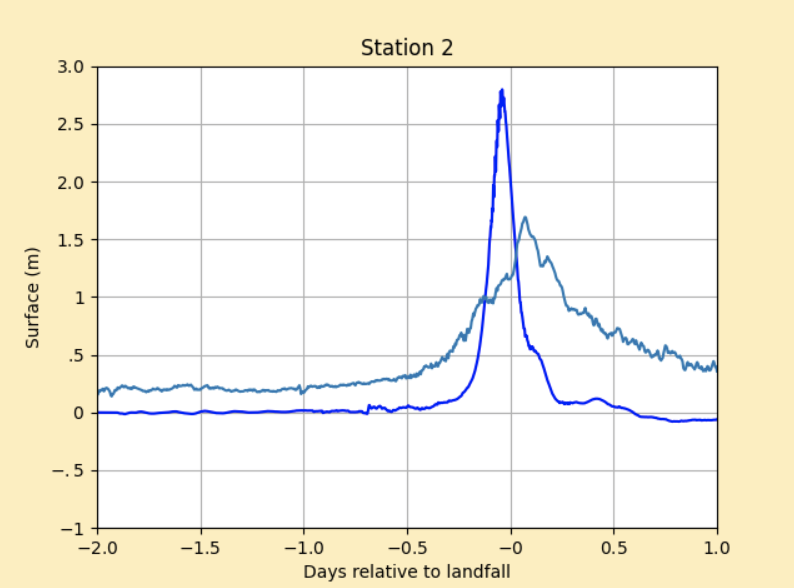
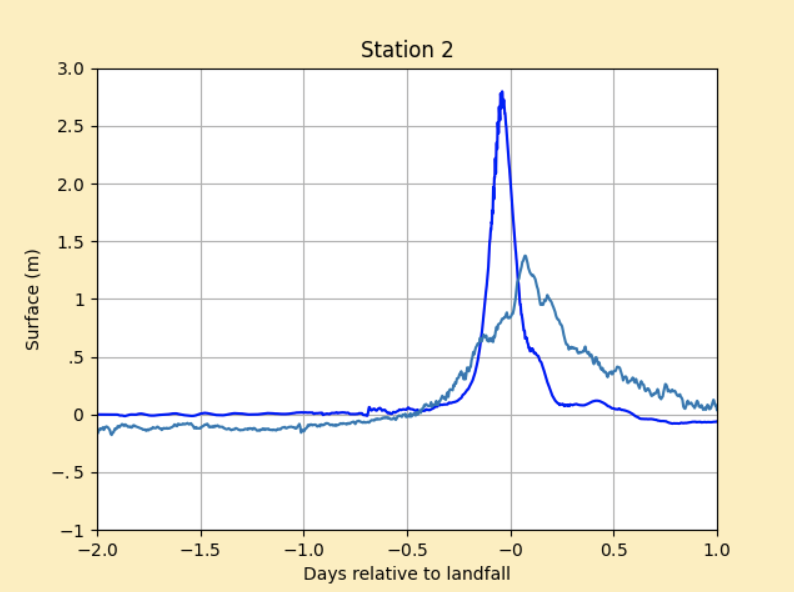
update ida

diff --git a/ida/setplot.py b/ida/setplot.py
@@ -169,6 +169,8 @@ def setplot(plotdata=None):
 
     import datetime
     my_dict = {1: '8760922', 2: '8761724', 3: '8764314', 4: '8747437', 5: '8760721'}
+    # Mean water level in meters obtained from NOAA Tides & Currents 
+    mean = [0.347472, 0.316992, 0.405384, 0.460248, 0.356616]
     def gauge_afteraxes(cd): 
         t0 = datetime.datetime(2021, 8, 27, 17)
         t_offset = datetime.datetime(2021, 8, 29, 17)
@@ -181,7 +183,7 @@ def setplot(plotdata=None):
         t = numpy.empty(date_time.shape[0])
         for j, dt in enumerate(date_time):
             t[j] = (dt - t_offset).total_seconds() / 86400
-        axes.plot(t, water_level - prediction)
+        axes.plot(t, water_level - prediction - mean[cd.gaugeno-1])
        
         # Fix up plot - in particular fix time labels
         axes.set_title('Station %s' % cd.gaugeno)

diff --git a/ida/setrun.py b/ida/setrun.py
@@ -528,4 +528,4 @@ if __name__ == '__main__':
     else:
         rundata = setrun()
 
-    rundata.write()
+    rundata.write() 

diff --git a/ida/readme.md b/ida/readme.md
@@ -39,7 +39,7 @@ Generally speaking, Ida produced widespread rainfall along its path. Ida produce
 (https://www.nhc.noaa.gov/data/tcr/AL092021_Ida.pdf)
 
 ## General Code Execution Guide
-If running this example, download setrun.py, setplot.py, and Makefile to the appropriate directory. Execute `$ make all` or `$ make .plots` to compile the code, run the simulation, and plot the results. If problems will be encountered, please refer to <a href="http://www.clawpack.org/quick_surge.html" target="_blank">Storm Surge Guide</a> for possible solutions. (Approximate runtime for this example on Monterey quad-Core intel core: 1 hour 10 min)
+If running this example, download setrun.py, setplot.py, and Makefile to the appropriate directory. Execute `$ make all` or `$ make .plots` to compile the code, run the simulation, and plot the results. If problems will be encountered, please refer to <a href="http://www.clawpack.org/quick_surge.html" target="_blank">Storm Surge Guide</a> for possible solutions. 
 
 ## Topography & Bathymetry Data
 Topography data can be obtained from:
@@ -78,39 +78,39 @@ rundata = clawdata.ClawRunData(claw_pkg, num_dim)
 One may also want to modify AMR parameters like `amr_levels_max` and `refinement_ratios` in a more customized way. In this example, `amr_levels_max` was set to be `6` and `refinement_ratios` was set to be `[2, 2, 2, 3, 4, 4]`. Note that for this specific example, Mississippi River Delta region was very hard to refine due to its extremely complicated and detailed topography. Therefore, high refinement levels are not recommended because run time may increase exponentially without making much progress. More information regarding refinement parameter can be found in the documentation here: <a href="https://www.clawpack.org/setrun_amrclaw.html#setrun-amrclaw" target="_blank">AMRClaw Information</a>.
 
 ## Observed Surge Data
-To compare simulation surge data by GeoClaw, we introduced the observed surge data using `clawpack.geoclaw.util.fetch_noaa_tide_data` along with each guage's station ID. When plotting the observed surge data, we explicitly deduct the tide amount from sea level at each location to make the data solely representing storm surge.
+To compare simulation surge data by GeoClaw, we introduced the observed surge data using `clawpack.geoclaw.util.fetch_noaa_tide_data` along with each guage's station ID. When plotting the observed surge data, we explicitly deduct the tide amount from sea level at each location to make the data solely representing storm surge. Also, given the significant initial differences between observed data and simulation data at all gauges, the mean of water level at each gauges was subtracted from the observed data.
 
 ## Validation Result
 ### Station 1-Pilots Station East, LA
-Pilots Station East, LA `ID: 8760922` experienced a storm surge of approximately 1.40 meter. GeoClaw predicted approximately 0.45 meters. 
+Pilots Station East, LA `ID: 8760922` experienced a storm surge of approximately 1.00 meter. GeoClaw predicted approximately 0.45 meters. 
 
 ![Station1](./images/station1.png)
 
 ### Station 2-Grand Isle, LA
-Grand Isle, LA `ID: 8761724` experienced a storm surge of approximately 1.65 meter. GeoClaw predicted approximately 2.80 meters. 
+Grand Isle, LA `ID: 8761724` experienced a storm surge of approximately 1.40 meter. GeoClaw predicted approximately 2.80 meters. 
 
 ![Station2](./images/station2.png)
 
 ### Station 3-Eugene Island, LA
-Eugene Island, LA `ID: 8764314` experienced a storm surge of approximately -0.40 meter. GeoClaw predicted approximately -0.45 meters. 
+Eugene Island, LA `ID: 8764314` experienced a storm surge of approximately -0.75 meter. GeoClaw predicted approximately -0.45 meters. 
 
 ![Station3](./images/station3.png)
 
 ### Station 4-Bay Waveland Yacht Club, LA
-Bay Waveland Yacht Club, LA `ID: 8747437` experienced a storm surge of approximately 2.25 meter. GeoClaw predicted approximately 0.75 meters. 
+Bay Waveland Yacht Club, LA `ID: 8747437` experienced a storm surge of approximately 1.75 meter. GeoClaw predicted approximately 0.75 meters. 
 
 ![Station4](./images/station4.png)
 
 ### Station 5-Port Fourchon, LA
-Port Fourchon, LA `ID: 8762075` experienced a storm surge of approximately 1.45 meter. GeoClaw predicted approximately 1.10 meters. 
+Port Fourchon, LA `ID: 8762075` experienced a storm surge of approximately 1.00 meter. GeoClaw predicted approximately 1.10 meters. 
 
 ![Station5](./images/station5.png)
 
 ### Result Interpretation
-Among all gauge locations, station 1, 2, 4, and 5 are to the right of the hurricane eye when Ida passed the Mississippi River Delta region, and we expected and observed positive surges in water level. For station 3, since it's to the left of the hurricane eye, a negative surge was observed and expected. Timing and pattern of storm surges obtained from GeoClaw were generally consistent with the observed data. Since hurricane Ida was a category 4 hurricane which generated severe rainfall and freshwater flooding, differences between observed data and simulation data are reasonable and acceptable. More elaboration is needed for station 2 because it's the only station that surge from simulation is higher than observed ones. The reason for that is the gauge location at Grand Isle is in a small pier surrounded by land. So it's nearly impossible to refine the region as specific as we need. Consequently, the location of station 2 for simulation was set in the nearest open water, and the abnormality can be explained because the land prevented the water from getting inside. Also, surge pattern of station 4 is not as good as other gauges because station 4 is located at a narrow pass of the mississippi river which cannot be refined in a reasonable time given author's current hardware setup.
+Among all gauge locations, station 1, 2, 4, and 5 are to the right of the hurricane eye when Ida passed the Mississippi River Delta region, and we expected and observed positive surges in water level. For station 3, since it's to the left of the hurricane eye, a negative surge was observed and expected. Timing and pattern of storm surges obtained from GeoClaw were generally consistent with the observed data. Since hurricane Ida was a category 4 hurricane which generated severe rainfall and freshwater flooding, differences between observed data and simulation data are reasonable and acceptable. More elaboration is needed for station 2 because it's the only station that surge from simulation is significantly higher than observed ones. The reason for that is the gauge location at Grand Isle is in a small pier surrounded by land. So it's nearly impossible to refine the region as specific as we need. Consequently, the location of station 2 for simulation was set in the nearest open water, and the abnormality can be explained because the land prevented the water from getting inside. Also, surge pattern of station 4 is not as good as other gauges because station 4 is located at a narrow pass of the mississippi river which cannot be refined in a reasonable time given author's current hardware setup.
 
 ## Conclusion
-Generally speaking, observed data and simulation data share large amount of similarty in timing and pattern of surges. Two major reasons for the differences between the two data or abnormality are highly likely to be rainfall & freshwater flooding caused by the hurricane which was not taken into account by GeoClaw, and low/bad refinement of topography. Note that for this specific example, Mississippi River Delta region has lots of tiny islands and narrow waterways, making it very hard to refine. For future executions of this example, user may need to fully consider the pros (possibility of better refined regions) and cons (low efficiency in terms of run time) when adding more refinement levels.
+Generally speaking, observed data and simulation data share large amount of similarty in timing and pattern of surges. Two major reasons for the differences between the two data or abnormality are highly likely rainfall & freshwater flooding caused by the hurricane which was not taken into account by GeoClaw, and low/bad refinement of topography. Note that for this specific example, Mississippi River Delta region has lots of tiny islands and narrow waterways, making it very hard to refine. For future executions of this example, user may need to fully consider the pros (possibility of better refined regions) and cons (low efficiency in terms of run time) when adding more refinement levels.
 
 
 Author: Jinpai (Max) Zhao
